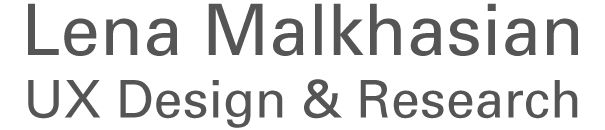
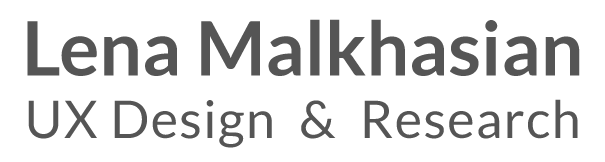
editing name to match body font

diff --git a/css/style.css b/css/style.css
@@ -644,7 +644,7 @@
 			position: absolute;
 			right: 1.5em;
 			text-transform: uppercase;
-			top: 1.75em;
+			top: 2.25em;
 		}
 
 			#header nav ul li {
@@ -689,7 +689,8 @@
 					-o-transition: all 0.2s ease-in-out;
 					-ms-transition: all 0.2s ease-in-out;
 					transition: all 0.2s ease-in-out;
-					background: rgba(188, 202, 206, 0.15);
+					background: rgba(188, 202, 206, 0.25);					
+
 				}
 
 				#header nav ul li.current > a {
